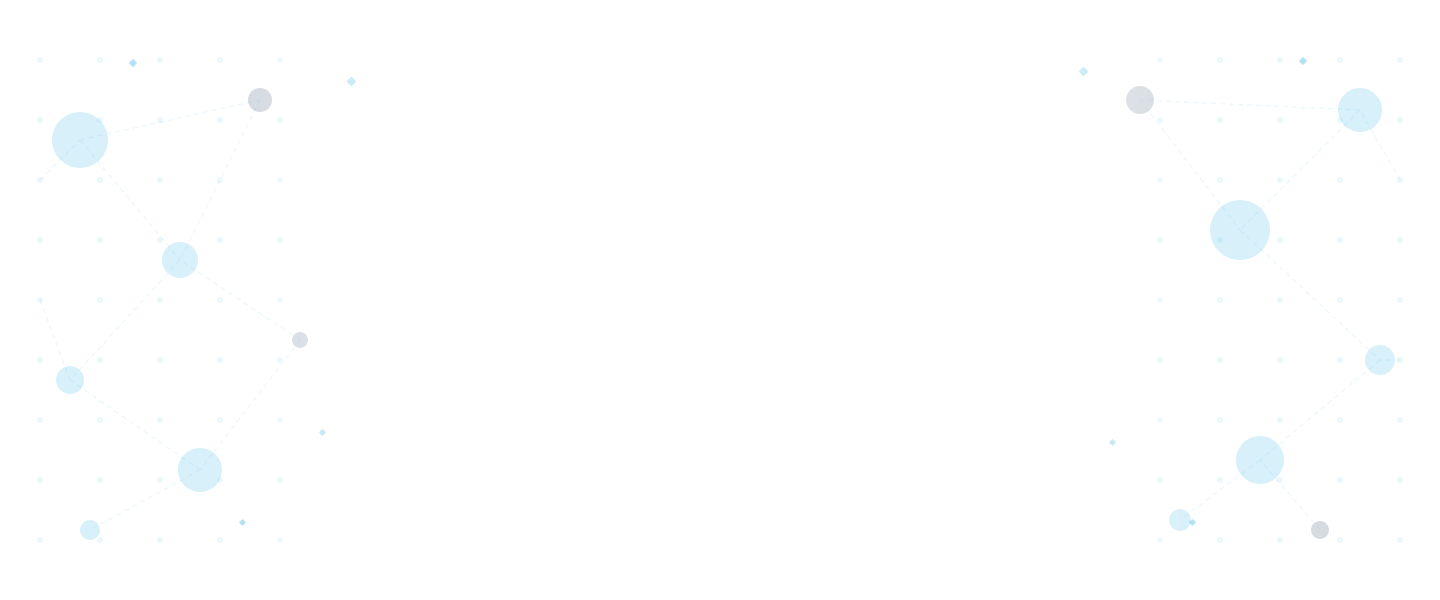
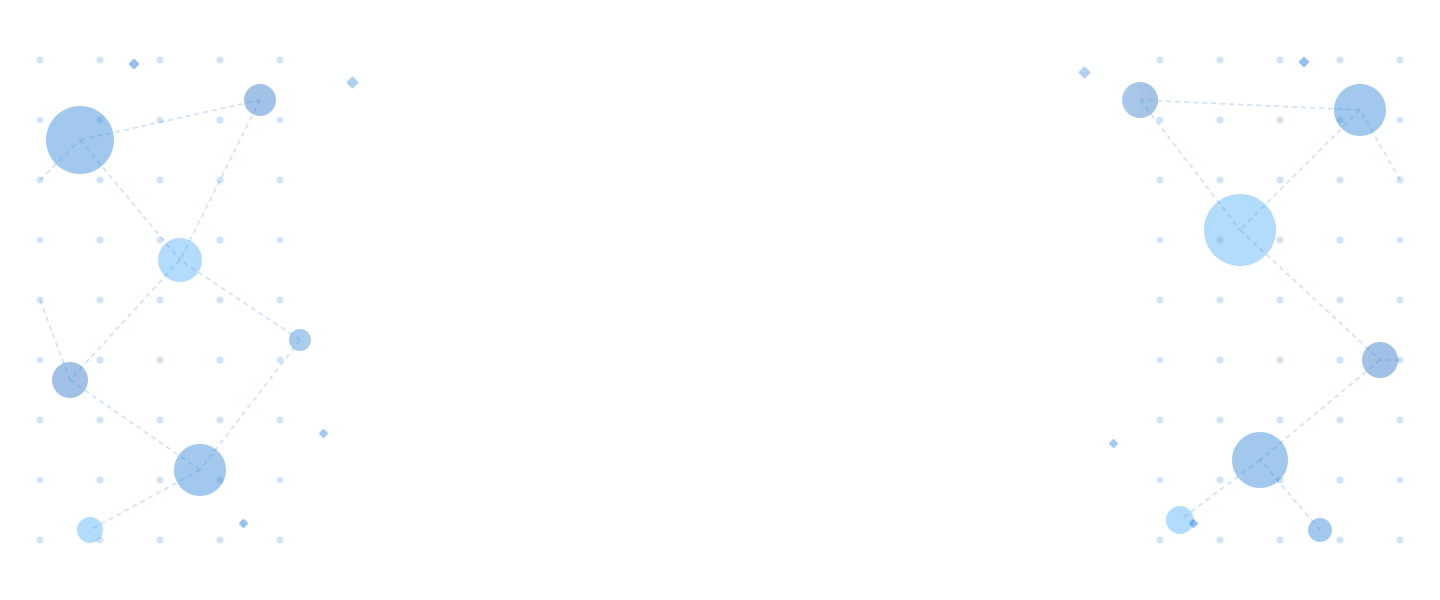
Made blue brighter for better visibility

diff --git a/frontend/src/pages/DashboardPage.css b/frontend/src/pages/DashboardPage.css
@@ -10,7 +10,7 @@
   position: fixed;
   top: 0; left: 0;
   font-family: 'Google Sans', 'Roboto', sans-serif;
-  background-color: #f0f4f8;
+  background-color: #f0f8ff;
 }
 
 /* ════════════════════════════════════════
@@ -19,7 +19,7 @@
 .db-rail {
   width: 110px;
   flex-shrink: 0;
-  background-color: #1e3a5f;
+  background-color: #2196f3;
   display: flex;
   flex-direction: column;
   align-items: center;
@@ -37,14 +37,14 @@
   display: flex;
   align-items: center;
   justify-content: center;
-  background-color: #2a4a7f;
+  background-color: rgba(255,255,255,0.15);
   padding: 0.25rem;
 }
 
 .db-rail-logo-text {
   font-size: 1.4rem;
   font-weight: 800;
-  color: #64B5F6;
+  color: #ffffff;
   font-family: 'Google Sans', sans-serif;
   letter-spacing: -0.05em;
 }
@@ -63,7 +63,7 @@
   border-radius: 12px;
   border: none;
   background: transparent;
-  color: rgba(255,255,255,0.45);
+  color: rgba(255,255,255,0.6);
   font-size: 1.75rem;
   cursor: pointer;
   transition: all 0.15s;
@@ -73,20 +73,20 @@
 }
 
 .db-rail-btn:hover {
-  background-color: rgba(255,255,255,0.1);
-  color: rgba(255,255,255,0.9);
+  background-color: rgba(255,255,255,0.15);
+  color: #ffffff;
 }
 
 .db-rail-btn.active {
-  background-color: #64B5F6;
-  color: #ffffff;
-  box-shadow: 0 4px 12px rgba(100,181,246,0.4);
+  background-color: #ffffff;
+  color: #2196f3;
+  box-shadow: 0 4px 12px rgba(0,0,0,0.1);
 }
 
 .db-rail-bottom {
   display: flex;
   flex-direction: column;
-  gap: 0.5rem;
+  gap: 1.25rem;
   width: 100%;
   margin-top: auto;
 }
@@ -139,7 +139,7 @@
 
 /* Filter pills */
 .db-filter-pill {
-  background-color: #f0f4f8;
+  background-color: #f0f8ff;
   border: 1px solid #dce3ed;
   border-radius: 999px;
   padding: 0.45rem 1.25rem;
@@ -155,12 +155,12 @@
 }
 
 .db-filter-pill:hover {
-  border-color: #64B5F6;
+  border-color: #2196f3;
   background-color: #e3f2fd;
 }
 
 .db-ai-btn {
-  background-color: #1e3a5f;
+  background-color: #2196f3;
   color: #ffffff;
   border: none;
   border-radius: 8px;
@@ -171,10 +171,11 @@
   cursor: pointer;
   transition: all 0.2s;
   white-space: nowrap;
+  box-shadow: 0 4px 12px rgba(33,150,243,0.3);
 }
 
 .db-ai-btn:hover {
-  background-color: #2a4a7f;
+  background-color: #1565c0;
   transform: translateY(-1px);
 }
 
@@ -187,7 +188,7 @@
   background-size: cover;
   background-position: center;
   background-repeat: no-repeat;
-  background-color: #f0f4f8;
+  background-color: #f0f8ff;
 }
 
 /* ════════════════════════════════════════
@@ -209,12 +210,12 @@
   background: #ffffff;
   border-radius: 10px;
   padding: 0.75rem 1.25rem;
-  border-left: 4px solid #64B5F6;
-  box-shadow: 0 1px 4px rgba(30,58,95,0.06);
+  border-left: 4px solid #2196f3;
+  box-shadow: 0 1px 4px rgba(33,150,243,0.08);
 }
 
 .ai-insight-icon {
-  color: #64B5F6;
+  color: #2196f3;
   font-size: 0.9rem;
   flex-shrink: 0;
 }
@@ -223,7 +224,7 @@
   font-size: 0.65rem;
   font-weight: 700;
   letter-spacing: 0.1em;
-  color: #64B5F6;
+  color: #2196f3;
   flex-shrink: 0;
 }
 
@@ -234,7 +235,7 @@
 }
 
 .ai-insight-btn {
-  background-color: #1e3a5f;
+  background-color: #2196f3;
   color: #ffffff;
   border: none;
   border-radius: 6px;
@@ -248,7 +249,7 @@
   flex-shrink: 0;
 }
 
-.ai-insight-btn:hover { background-color: #2a4a7f; }
+.ai-insight-btn:hover { background-color: #1565c0; }
 
 /* ════════════════════════════════════════
    KPI GRID
@@ -261,12 +262,12 @@
 
 /* Hero */
 .kpi-hero {
-  background: linear-gradient(135deg, #1a3354 0%, #1e3a5f 60%, #2a4a7f 100%);
+  background: linear-gradient(135deg, #1565c0 0%, #2196f3 100%);
   border-radius: 14px;
   padding: 1.5rem 1.75rem;
   position: relative;
   overflow: hidden;
-  box-shadow: 0 4px 16px rgba(30,58,95,0.2);
+  box-shadow: 0 4px 16px rgba(33,150,243,0.3);
 }
 
 .kpi-hero-bg {
@@ -274,7 +275,7 @@
   top: -40px; right: -40px;
   width: 160px; height: 160px;
   border-radius: 50%;
-  background: rgba(100,181,246,0.1);
+  background: rgba(255,255,255,0.1);
 }
 
 .kpi-hero-label {
@@ -282,7 +283,7 @@
   font-weight: 700;
   text-transform: uppercase;
   letter-spacing: 0.1em;
-  color: rgba(255,255,255,0.45);
+  color: rgba(255,255,255,0.6);
   margin-bottom: 0.5rem;
   position: relative;
   z-index: 1;
@@ -301,15 +302,15 @@
 
 .kpi-hero-badge {
   display: inline-block;
-  background: rgba(100,181,246,0.2);
-  color: #90CAF9;
+  background: rgba(255,255,255,0.2);
+  color: #ffffff;
   font-size: 0.75rem;
   font-weight: 600;
   padding: 0.25rem 0.75rem;
   border-radius: 999px;
   position: relative;
   z-index: 1;
-  border: 1px solid rgba(100,181,246,0.25);
+  border: 1px solid rgba(255,255,255,0.25);
 }
 
 /* Supporting KPI cards */
@@ -317,13 +318,14 @@
   background: #ffffff;
   border-radius: 14px;
   padding: 1.25rem 1.5rem;
-  box-shadow: 0 1px 4px rgba(30,58,95,0.06);
+  box-shadow: 0 1px 4px rgba(33,150,243,0.08);
   transition: all 0.2s;
+  border-top: 3px solid #2196f3;
 }
 
 .kpi-card:hover {
   transform: translateY(-1px);
-  box-shadow: 0 4px 12px rgba(30,58,95,0.1);
+  box-shadow: 0 4px 12px rgba(33,150,243,0.15);
 }
 
 .kpi-label {
@@ -368,7 +370,7 @@
   background: #ffffff;
   border-radius: 14px;
   padding: 1.25rem 1.5rem;
-  box-shadow: 0 1px 4px rgba(30,58,95,0.06);
+  box-shadow: 0 1px 4px rgba(33,150,243,0.08);
 }
 
 .panel-title {
@@ -395,7 +397,7 @@
 }
 
 /* ════════════════════════════════════════
-   CHART ZONE (placeholders)
+   CHART ZONE
 ════════════════════════════════════════ */
 .chart-zone {
   display: flex;
@@ -405,12 +407,9 @@
   color: #8aaac8;
   font-size: 0.82rem;
   margin-top: 1rem;
-  background: repeating-linear-gradient(
-    45deg,
-    #fafbfc, #fafbfc 5px,
-    #f0f4f8 5px, #f0f4f8 10px
-  );
+  background: #f0f8ff;
   border-radius: 8px;
+  border: 1px dashed #dce3ed;
 }
 
 .chart-tall { min-height: 260px; }
@@ -443,14 +442,13 @@
   display: flex;
   align-items: flex-start;
   gap: 0.75rem;
-  padding: 0.75rem 0.5rem;
-  border-bottom: 1px solid #f0f4f8;
+  padding: 0.75rem 0.875rem;
+  border-bottom: 1px solid #f0f8ff;
   border-left: 3px solid #ef4444;
-  padding-left: 0.875rem;
   transition: background-color 0.15s;
 }
 
-.alert-row:hover { background: #fafbfc; }
+.alert-row:hover { background: #f0f8ff; }
 
 .alert-name {
   font-size: 0.875rem;
@@ -478,7 +476,7 @@
   justify-content: space-between;
   align-items: center;
   padding: 0.65rem 0;
-  border-bottom: 1px solid #f8fafc;
+  border-bottom: 1px solid #f0f8ff;
   transition: background-color 0.15s;
 }
 
@@ -500,8 +498,8 @@
   flex-shrink: 0;
 }
 
-.rank-blue { background: rgba(100,181,246,0.15); color: #42A5F5; }
-.rank-red  { background: rgba(239,68,68,0.1);    color: #ef4444; }
+.rank-blue { background: rgba(33,150,243,0.12); color: #2196f3; }
+.rank-red  { background: rgba(239,68,68,0.1);   color: #ef4444; }
 
 .product-name {
   font-size: 0.875rem;
@@ -510,5 +508,14 @@
 }
 
 .product-val { font-size: 0.875rem; font-weight: 600; }
-.val-blue    { color: #42A5F5; }
+.val-blue    { color: #2196f3; }
 .val-red     { color: #ef4444; }
+
+/* ════════════════════════════════════════
+   ANALYSIS
+════════════════════════════════════════ */
+.db-analysis {
+  display: flex;
+  flex-direction: column;
+  gap: 1.25rem;
+}
